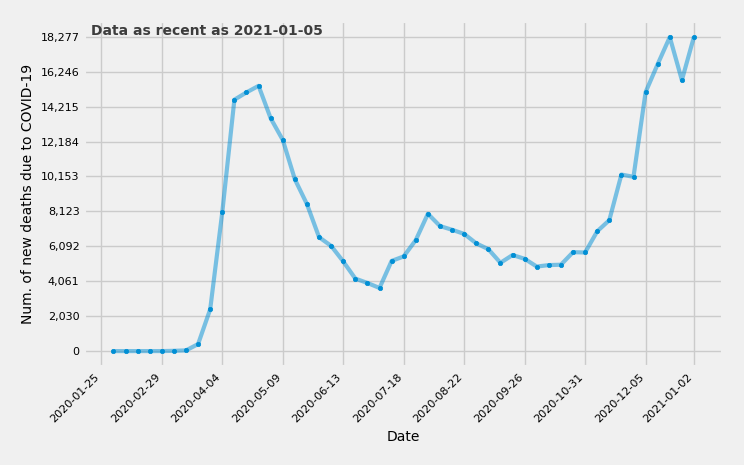
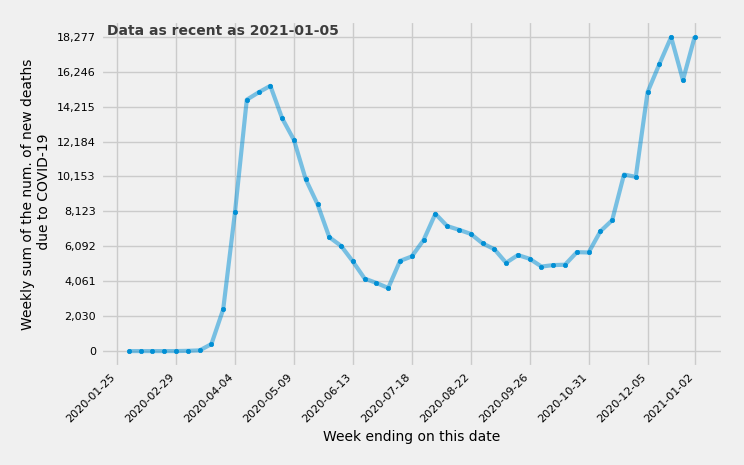
updated acis labels

diff --git a/data/JHUDeathData/pullAndProcessJHUDeathData.py b/data/JHUDeathData/pullAndProcessJHUDeathData.py
@@ -82,8 +82,8 @@ if __name__ == "__main__":
     
     ax.tick_params(which="both",labelsize=8)
 
-    ax.set_xlabel("Date", fontsize=10)
-    ax.set_ylabel("Num. of new deaths due to COVID-19", fontsize=10)
+    ax.set_xlabel("Week ending on this date", fontsize=10)
+    ax.set_ylabel("Weekly sum of the num. of new deaths\n due to COVID-19", fontsize=10)
     
     utc = datetime.utcnow().date()
     
